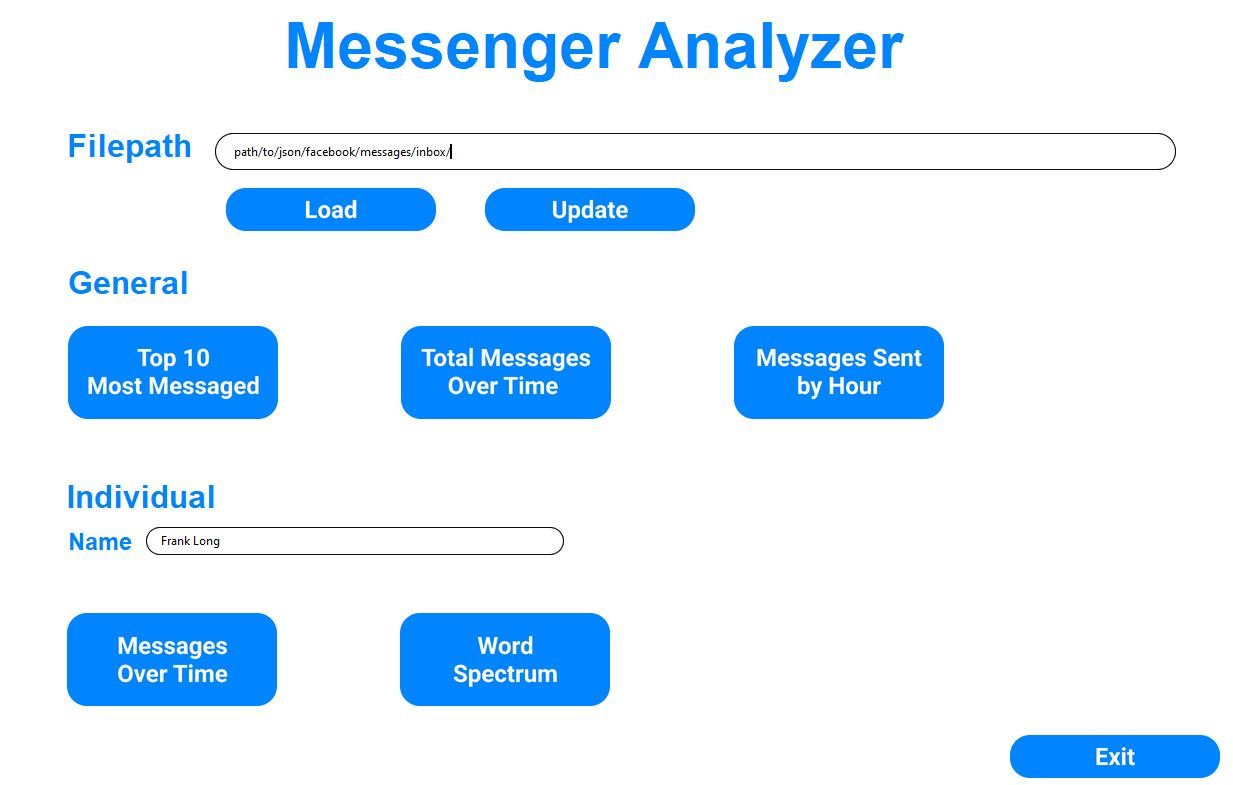
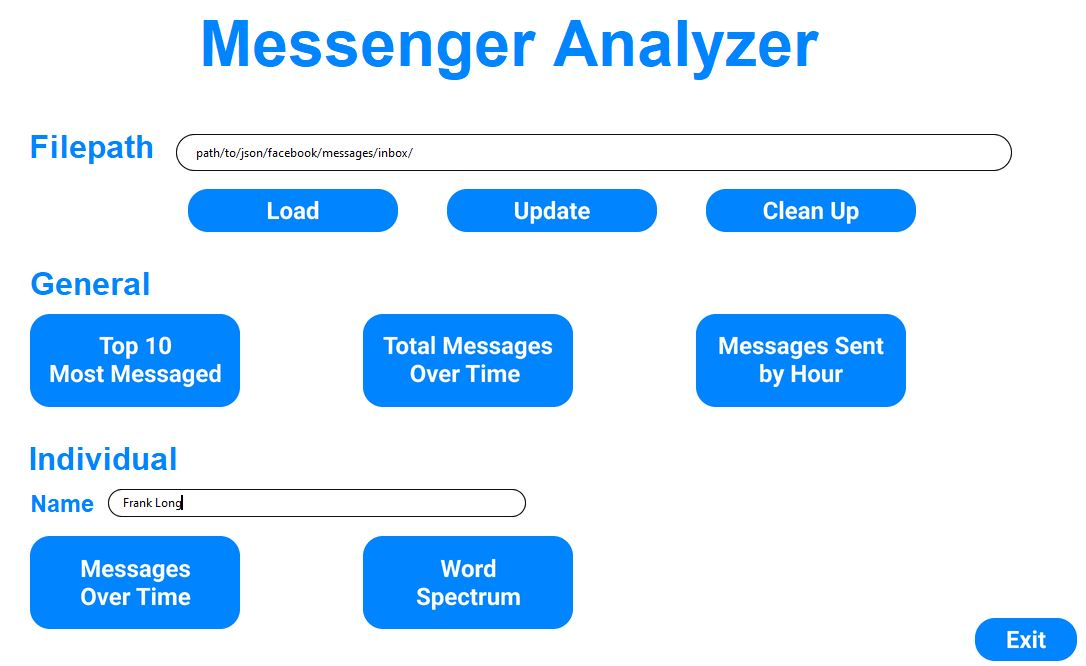
Update GUI, implement clean up button

diff --git a/main.py b/main.py
@@ -156,6 +156,7 @@ def update(rootpath=''):
 def cleanup():
 	# Identify duplicates - group messages with same timestamp, sender_name
 	# Note: dropDups has been deprecated from ensureIndex
+	print("Cleaning...")
 	pipeline = [
 		{ '$group': { 
 			'_id': { 'sender_name': "$sender_name", 'timestamp_ms' : '$timestamp_ms', 'content' : '$content'}, 
@@ -520,15 +521,15 @@ def main():
 	# Set up window
 	# TODO: scale for smaller resolutions
 	window = Tk()
-	window.geometry("1276x822")
+	window.geometry("1154x702")
 	window.configure(bg = "#FFFFFF")
 	window.title("Messenger Analyzer")
 
 	canvas = Canvas(
 		window,
 		bg = "#FFFFFF",
-		height = 822,
-		width = 1276,
+		height = 702,
+    	width = 1154,
 		bd = 0,
 		highlightthickness = 0,
 		relief = "ridge"
@@ -537,8 +538,8 @@ def main():
 	# Title
 	canvas.place(x = 0, y = 0)
 	canvas.create_text(
-		317.0,
-		28.0,
+		256.0,
+    	25.0,
 		anchor="nw",
 		text="Messenger Analyzer",
 		fill="#0084FF",
@@ -547,8 +548,8 @@ def main():
 
 	# Loading/Updating database
 	canvas.create_text(
-		100.0,
-		147.0,
+		86.0,
+    	147.0,
 		anchor="nw",
 		text="Filepath",
 		fill="#0084FF",
@@ -557,7 +558,7 @@ def main():
 	entry_image_1 = PhotoImage(
 		file=relative_to_assets("entry_1.png"))
 	entry_bg_1 = canvas.create_image(
-		727.5000305175781,
+		651.0,
 		170.5,
 		image=entry_image_1
 	)
@@ -567,9 +568,9 @@ def main():
 		highlightthickness=0
 	)
 	fpath_field.place(
-		x=265.5,
+		x=251.5,
 		y=154.0,
-		width=924.0000610351562,
+		width=799.0,
 		height=35.0
 	)
 	load_button_image = PhotoImage(
@@ -582,7 +583,7 @@ def main():
 		relief="flat"
 	)
 	load_button.place(
-		x=259.0,
+		x=245.0,
 		y=208.0,
 		width=210.0,
 		height=43.0
@@ -598,7 +599,23 @@ def main():
 		relief="flat"
 	)
 	update_button.place(
-		x=518.0,
+		x=504.0,
+		y=208.0,
+		width=210.0,
+		height=43.0
+	)
+
+	clean_button_image = PhotoImage(
+		file=relative_to_assets("button_9.png"))
+	clean_button = Button(
+		image=clean_button_image,
+		borderwidth=0,
+		highlightthickness=0,
+		command=cleanup,
+		relief="flat"
+	)
+	clean_button.place(
+		x=763.0,
 		y=208.0,
 		width=210.0,
 		height=43.0
@@ -606,8 +623,8 @@ def main():
 
 	# Visualizations for all coversations (General)
 	canvas.create_text(
-		101.0,
-		284.0,
+		87.0,
+    	284.0,
 		anchor="nw",
 		text="General",
 		fill="#0084FF",
@@ -623,8 +640,8 @@ def main():
 		relief="flat"
 	)
 	msgsvtimeall_button.place(
-		x=434.0,
-		y=346.0,
+		x=420.0,
+		y=333.0,
 		width=210.0,
 		height=93.0
 	)
@@ -639,8 +656,8 @@ def main():
 		relief="flat"
 	)
 	top10_button.place(
-		x=101.0,
-		y=346.0,
+		x=87.0,
+		y=333.0,
 		width=210.0,
 		height=93.0
 	)
@@ -654,24 +671,24 @@ def main():
 		relief="flat"
 	)
 	hour_button.place(
-		x=767.0,
-		y=346.0,
+		x=753.0,
+		y=333.0,
 		width=210.0,
 		height=93.0
 	)
 
 	# Visualizations for individual conversations
 	canvas.create_text(
-		100.0,
-		498.0,
+		86.0,
+    	459.0,
 		anchor="nw",
 		text="Individual",
 		fill="#0084FF",
 		font=TkFont.Font(family="Helvetica",size=24,weight="bold")
 	)
 	canvas.create_text(
-		101.0,
-		547.0,
+		87.0,
+    	508.0,
 		anchor="nw",
 		text="Name",
 		fill="#0084FF",
@@ -680,8 +697,8 @@ def main():
 	entry_image_2 = PhotoImage(
 		file=relative_to_assets("entry_2.png"))
 	entry_bg_2 = canvas.create_image(
-		388.0,
-		561.0,
+		374.0,
+		522.0,
 		image=entry_image_2
 	)
 	name_field = Entry(
@@ -690,8 +707,8 @@ def main():
 		highlightthickness=0
 	)
 	name_field.place(
-		x=193.0,
-		y=548.0,
+		x=179.0,
+		y=509.0,
 		width=390.0,
 		height=26.0
 	)
@@ -705,8 +722,8 @@ def main():
 		relief="flat"
 	)
 	msgsvtimeind_button.place(
-		x=100.0,
-		y=633.0,
+		x=87.0,
+		y=555.0,
 		width=210.0,
 		height=93.0
 	)
@@ -721,8 +738,8 @@ def main():
 		relief="flat"
 	)
 	wordspec_button.place(
-		x=433.0,
-		y=633.0,
+		x=420.0,
+		y=555.0,
 		width=210.0,
 		height=93.0
 	)
@@ -738,9 +755,9 @@ def main():
 		relief="flat"
 	)
 	exit_button.place(
-		x=1043.0,
-		y=755.0,
-		width=210.0,
+		x=1032.0,
+		y=637.0,
+		width=102.0,
 		height=43.0
 	)	
 	window.resizable(False, False)
@@ -750,6 +767,6 @@ def main():
 if __name__ == "__main__":
 	#getLastMessage()
 	#test()
-	cleanup()
+	#cleanup()
 	MY_NAME = getName()
 	main()

diff --git a/README.md b/README.md
@@ -1,5 +1,5 @@
 # Messenger-Analyzer
-Parses JSON files that hold Facebook messenger data and allows user to generate graphs and trends. Download Facebook Messenger data in JSON format and edit rootpath to use
+Parses JSON files that hold Facebook messenger data and allows user to generate graphs and trends. Download Facebook Messenger data in JSON format and enter path to inbox to use
 
 ## Usage
 
@@ -11,7 +11,7 @@ python main.py
 
 ![alt text](./img/menu.JPG)
 
-When running for the first time, enter the path to your Facebook messages/inbox directory of data and click "Load". Use the "Update" button when you wish to add additional data file in the future. 
+When running for the first time, enter the path to your Facebook messages/inbox directory of data and click "Load". Use the "Update" button when you wish to add additional data file in the future. Use the "Clean Up" button to remove duplicate messages in case of accidental load or overload. 
 
 ## Required Libraries
 * pandas
@@ -50,14 +50,20 @@ Connects to local MongoDB database and creates two collections:
 ### update()
 Connects to local MongoDB and adds data to the existing collections. This is almost identical to load(). Kept separate for now in case of future changes. 
 
-### getLastMessage()
-Returns the date of the last message in the database. This allows you to know which date to start at when downloading data again to update the database. Note that since Facebook does not allow you to specify the hour, it is recommended to start on the next day. Unfortunately, you will miss any messages sent the previous day after the last download. This could be avoided by checking each message to see if it is already in the database, but that significantly slows down the import. 
+### cleanup()
+Connects to local MongoDB and looks through the messages collection for documents that have the same "timestamp", "sender_name", and "content". Keeps the first document and removes subsequent ones. 
 
-### analyze()
-Launches the tkinter GUI to allow the user to select various visualizations. Currently does not fully support the MongoDB structures. WIP
+### getLastMessage()
+Returns the date of the last message in the database. This allows you to know which date to start at when downloading data again to update the database. Note that since Facebook does not allow you to specify the hour, it is recommended to start on the next day. Unfortunately, you will miss any messages sent the previous day after the last download. Due to addition of the `cleanup()` function, you can now start retrieving on the day returned by this function, but cleanup time may be long. 
+
+### getName()
+Determines the name of the owner of the inbox by assuming that name is the one with the highest total messages sent count. 
+
+### main()
+Launches the tkinter GUI to allow the user to select various visualizations built using Matplotlib, Pandas, and Seaborn with data queried from MongoDB. 
 
 ## Available Visualizations
-Note that date filters will be added soon. Sample images of the visualizations to come as well!
+Note that date filters will be added soon.
 ### Top 10 (n) Most Messaged
 Identifies who you have exchanged the most messages with ever! WARNING: Results may surprise you
 <br>
@@ -65,7 +71,7 @@ Identifies who you have exchanged the most messages with ever! WARNING: Results 
 ![alt text](./img/topn.png)
 
 ### Messages over time (sent and received)
-Shows activity over time. May be able to identify cyclical patterns or trends. Can also see the effect of certain effects on your messaging habits (e.g. Do I talk to more people during a global pandemic?)
+Shows activity over time. May be able to identify cyclical patterns or trends. Can also see the effect of certain events on your messaging habits (e.g. Do I talk to more people during a global pandemic?)
 <br>
 
 ![alt text](./img/msg_v_time.JPG)
@@ -88,6 +94,6 @@ For a specific contact, identify which words you are more likely to type opposed
 
 ## Next Steps/Features
 * Date range filter
-* Database cleanup option - in case the sample files/messages are loaded multiple times, need a function to clean it up or a way to prevent this
+* Explore database cleanup alternatives - currently looks through entire database for duplicates. Can we add a label to each document that represents the import whenever data is loaded? This way we can add a function that removes the last load and potentially faster query as you would not need to check docs from the same load... 
 * More graphs...
 * Optimize word spectrum - consider analyzing a sample of the conversation instead of all of it?
